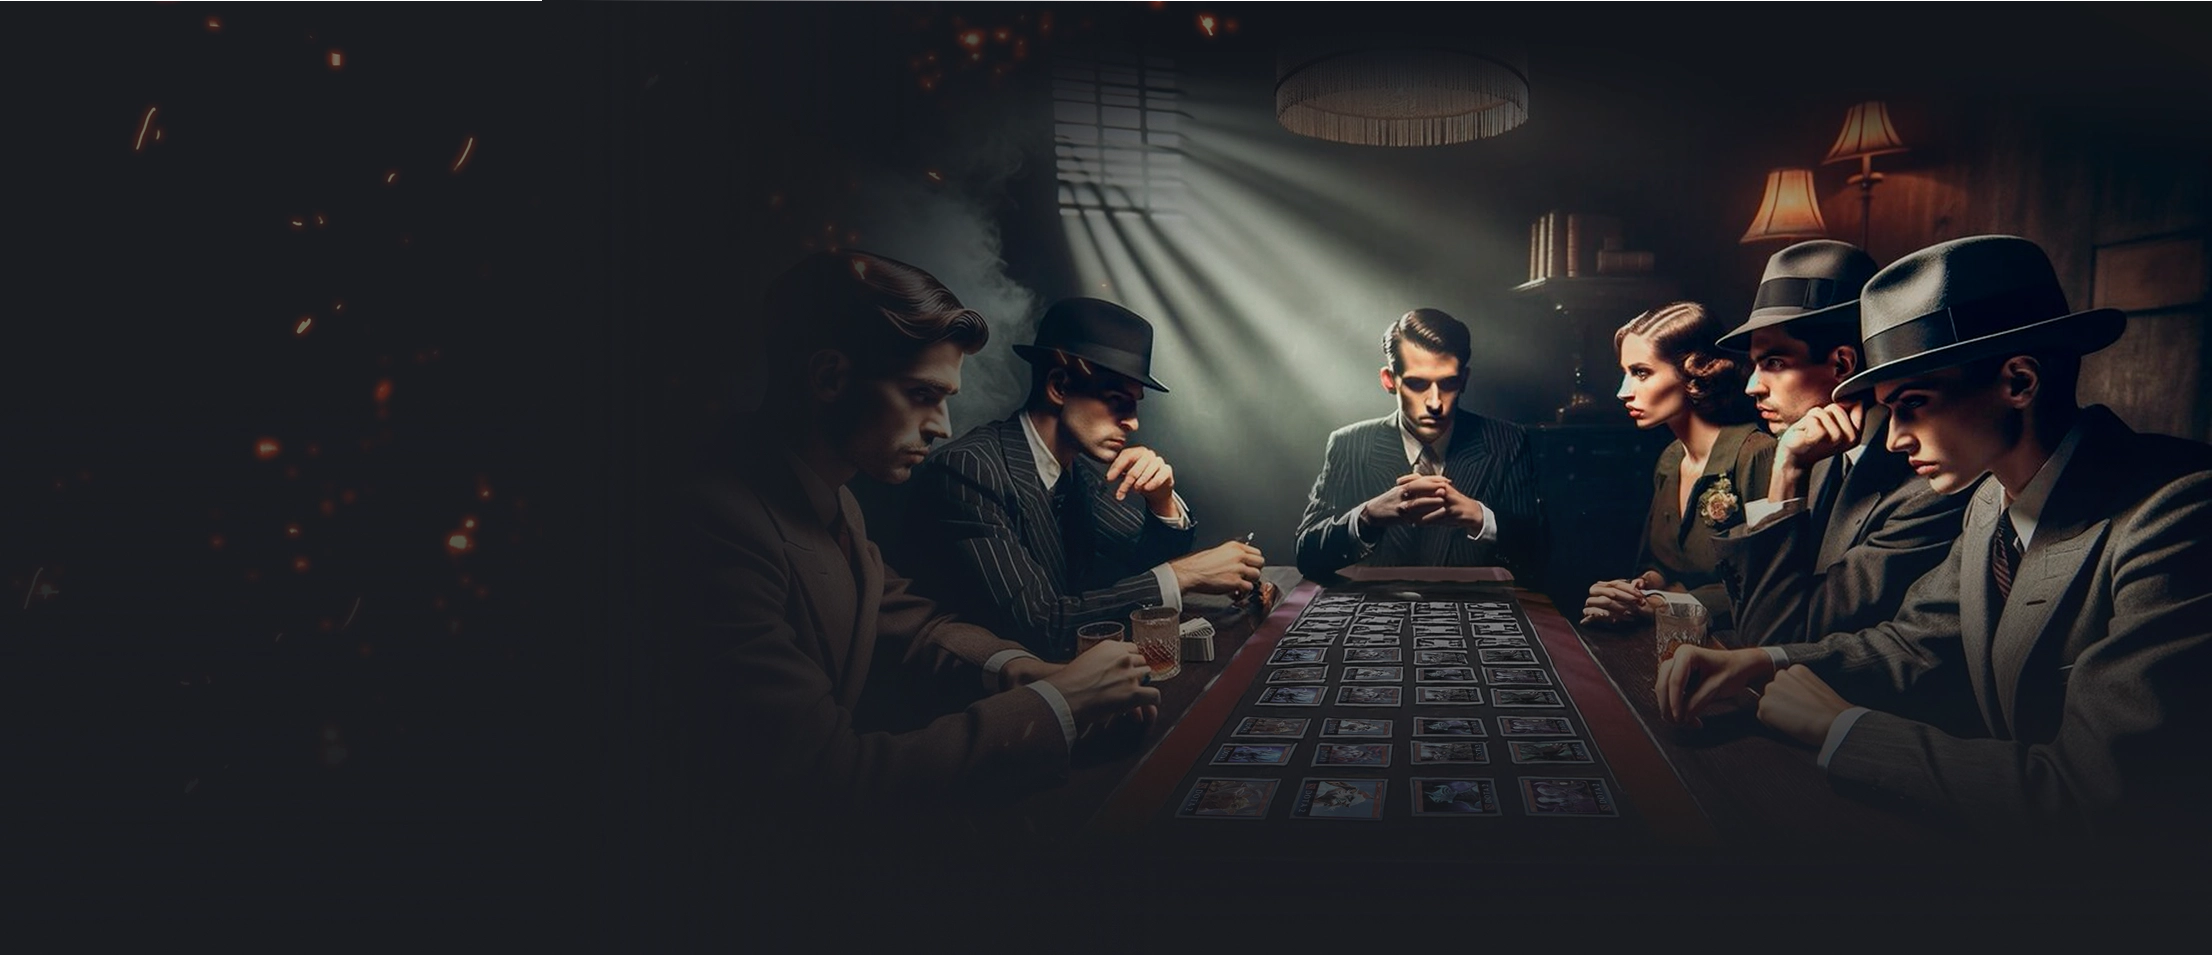
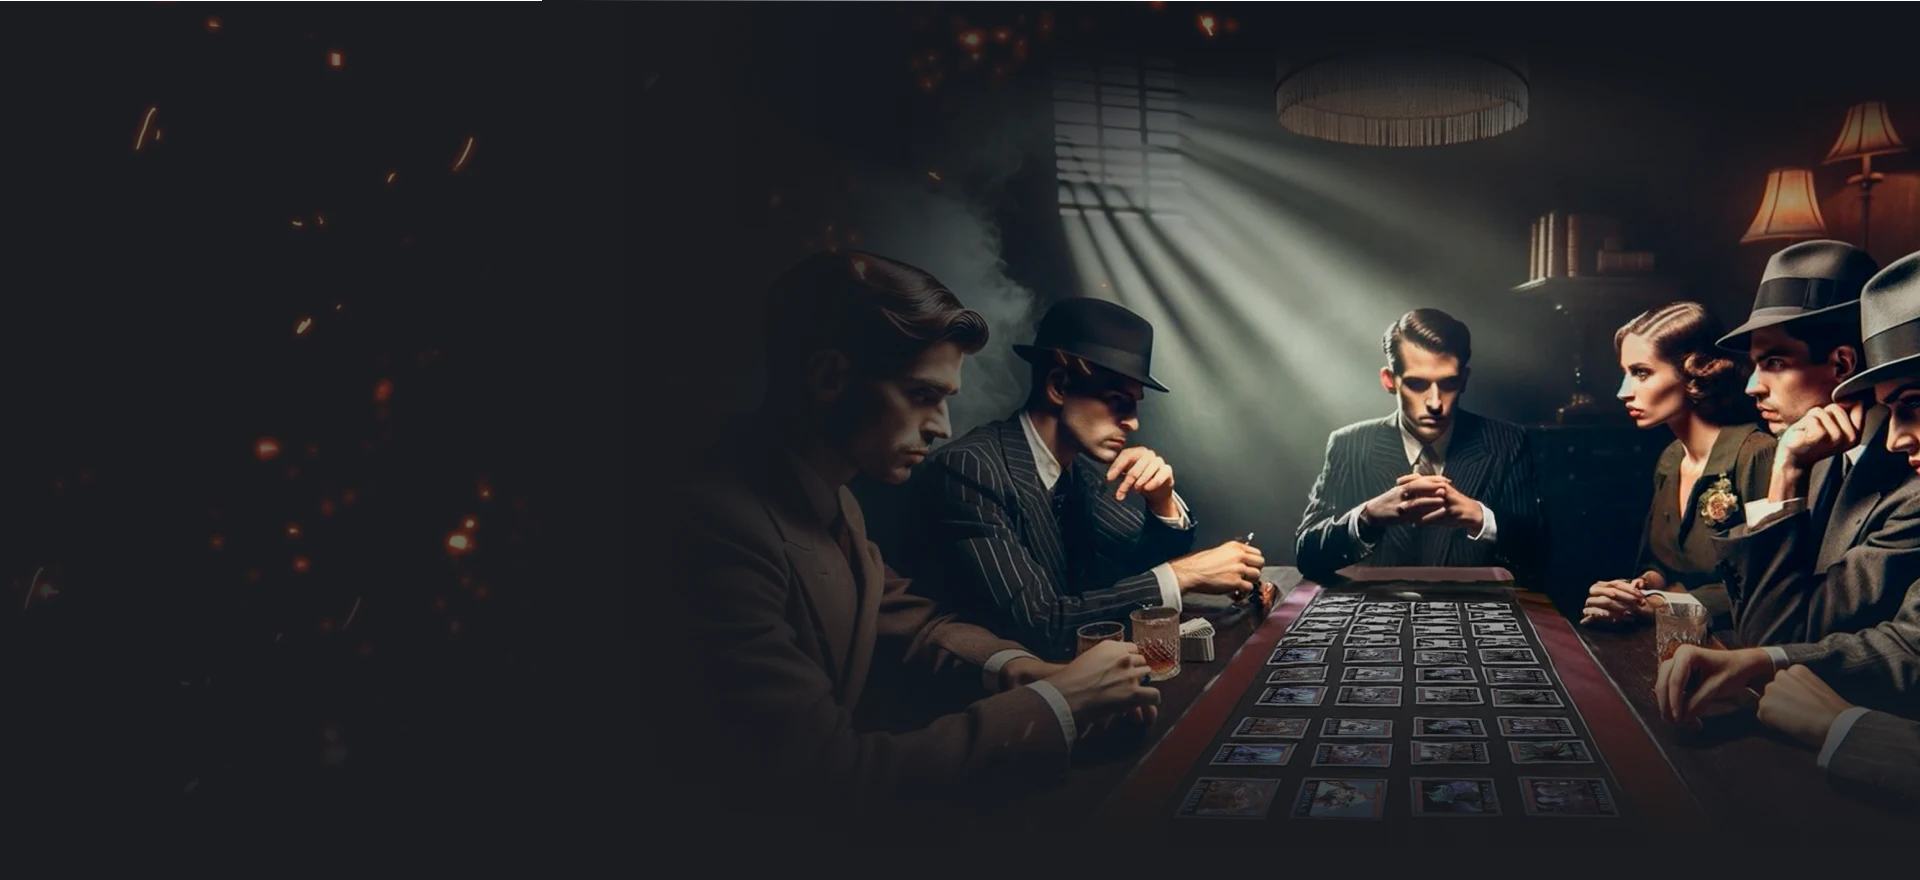
change m menu

diff --git a/src/shared/components/sections/Hero/HeroBasic/HeroBasic.tsx b/src/shared/components/sections/Hero/HeroBasic/HeroBasic.tsx
@@ -9,7 +9,7 @@ export const HeroBasic: FC<TDiv> = () => {
   return (
     <>
       <div className={styles.root}>
-        {/* <picture className={styles.image}>
+        <picture className={styles.image}>
           <source
             media="(max-width: 768px)"
             className={styles.image}
@@ -22,7 +22,7 @@ export const HeroBasic: FC<TDiv> = () => {
             type="image/webp"
           />
           <source
-            media="(min-width: 1325px)"
+            media="(min-width: 1225px)"
             className={styles.image}
             srcSet="/images/hero_big.webp"
             type="image/webp"
@@ -32,7 +32,7 @@ export const HeroBasic: FC<TDiv> = () => {
             alt="Hero Background"
             className={styles.image}
           />
-        </picture> */}
+        </picture>
         <Container className={styles.wrapper}>
           <h1 className={styles.title}>КУПИТЬ СКИНЫ CS2 & DOTA 2</h1>
           <p className={styles.text}>

diff --git a/src/shared/hooks/useStopScroll.ts b/src/shared/hooks/useStopScroll.ts
@@ -73,25 +73,4 @@ export const useStopScroll = (
       }
     };
   }, [condition, scrollWidth, id, ref]);
-
-  useEffect(() => {
-    console.log(activeModalIds);
-    if (activeModalIds.length === 0) return;
-
-    const pageElement = document.querySelector<HTMLElement>(".page");
-    if (!pageElement) return;
-
-    const lastModal = activeModalIds[activeModalIds.length - 1];
-    if (!lastModal || !lastModal.ref?.current) return;
-
-    if (pageElement !== lastModal.ref.current) {
-      pageElement.setAttribute("inert", "");
-    } else {
-      pageElement.removeAttribute("inert");
-    }
-
-    return () => {
-      pageElement.removeAttribute("inert");
-    };
-  }, [condition, activeModalIds]);
 };

diff --git a/src/shared/components/parts/HeaderNav/HeaderNav.module.css b/src/shared/components/parts/HeaderNav/HeaderNav.module.css
@@ -6,14 +6,14 @@
 
 @media screen and (max-width: 1024px) {
   .root {
-    padding-top: 80px;
+    margin-top: 80px;
     overflow-y: auto;
     overflow-x: hidden;
     position: fixed;
     top: 0;
     left: 0;
     width: 100dvw;
-    height: 100dvh;
+    height: calc(100dvh - 80px);
     transform: translateY(100%);
     transition: transform 0.4s ease-in-out;
     background: rgba(41, 41, 41, 1);
